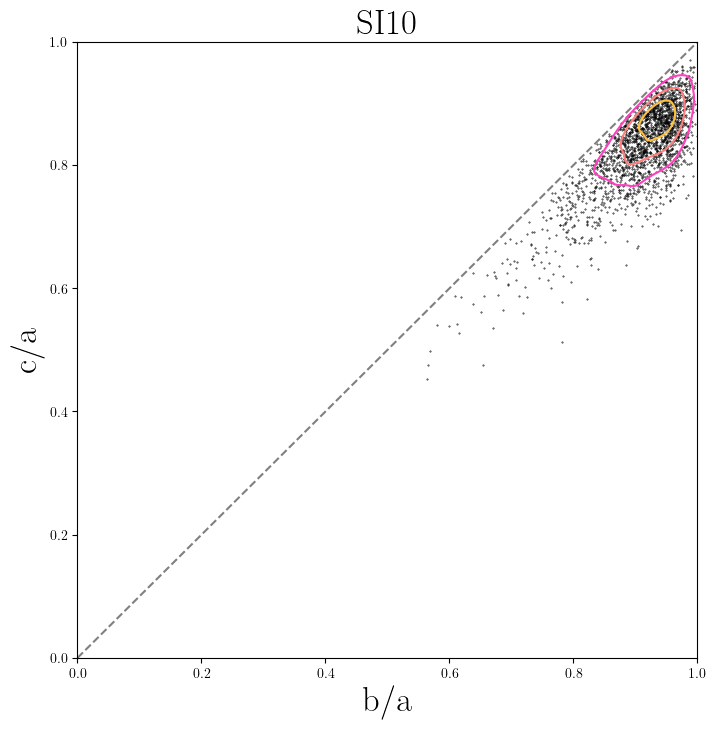
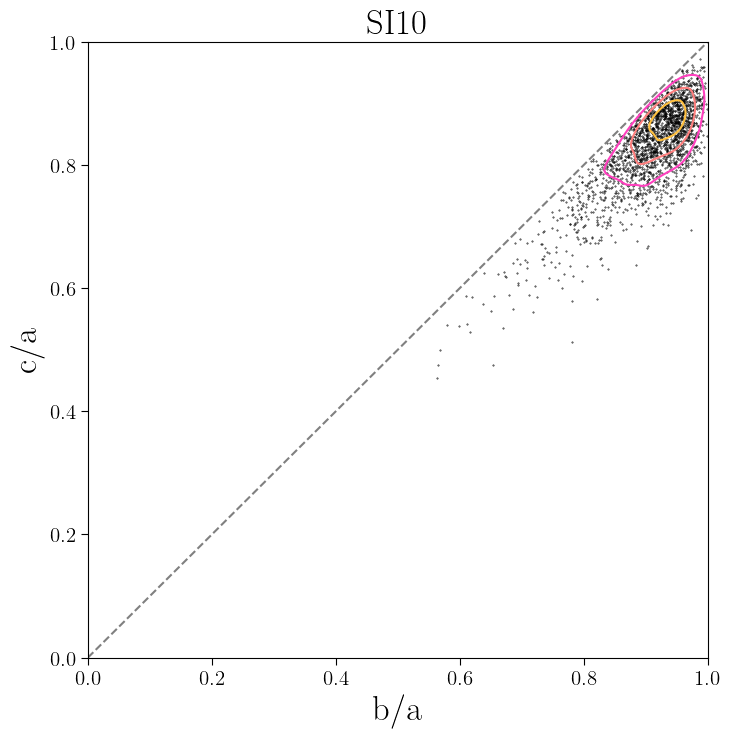
Added 1D histograms to borders of DarkMatterShape Plots

diff --git a/Code/DarkMatterShapes.Plots.py b/Code/DarkMatterShapes.Plots.py
@@ -26,6 +26,7 @@ for halo in data:
 f,ax = plt.subplots(1,1,figsize=(8,8))
 ax.set_xlim([0,1])
 ax.set_ylim([0,1])
+ax.tick_params(length=5,labelsize=15)
 ax.set_xlabel('b/a',fontsize=25)
 ax.set_ylabel('c/a',fontsize=25)
 ax.set_title(im,fontsize=25)
@@ -45,6 +46,7 @@ zk = k(np.vstack([xk.flatten(), yk.flatten()]))
 f,ax = plt.subplots(1,1,figsize=(8,8))
 ax.set_xlim([0,1])
 ax.set_ylim([0,1])
+ax.tick_params(length=5,labelsize=15)
 ax.set_xlabel('b/a',fontsize=25)
 ax.set_ylabel('c/a',fontsize=25)
 ax.set_title(im,fontsize=25)
@@ -59,11 +61,20 @@ meta.creator='DarkMatterShapes.Plots.py'
 f,ax = plt.subplots(1,1,figsize=(8,8))
 ax.set_xlim([0,1])
 ax.set_ylim([0,1])
+ax.tick_params(length=5,labelsize=15)
 ax.set_xlabel('b/a',fontsize=25)
 ax.set_ylabel('c/a',fontsize=25)
 ax.set_title(im,fontsize=25)
 ax.plot([0,1],[0,1],c='0.5',linestyle='--')
 ax.hist2d(b,c,[bins,bins],cmap='Greys',density=True)
+ax2 = ax.twinx()
+ax2.set_ylim([0,50])
+ax2.set_yticks([])
+ax2.hist(b,bins,histtype='step',facecolor='None',edgecolor='k',density=True)
+ax3 = ax.twiny()
+ax3.set_xlim([0,50])
+ax3.set_xticks([])
+ax3.hist(c,bins,histtype='step',facecolor='None',edgecolor='k',density=True,orientation='horizontal')
 f.savefig(f'../Plots/DarkMatterShapes.{im}.AHF.Histogram.png',bbox_inches='tight',pad_inches=.1)
 meta = OSXMetaData(f'../Plots/DarkMatterShapes.{im}.AHF.Histogram.png')
 meta.creator='DarkMatterShapes.Plots.py'
